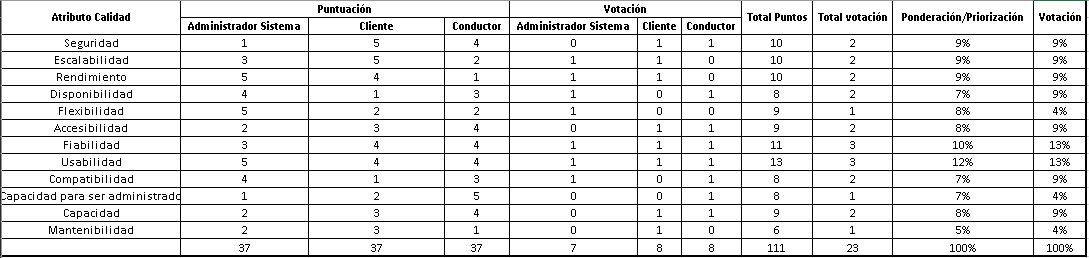
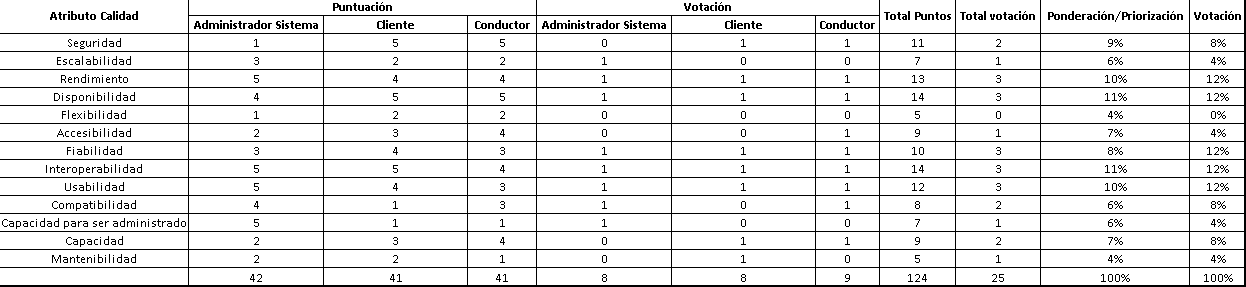
Se crearon hasta el arquetipo de solucion

Changed region(s): [[0.0, 0.0, 1.0, 1.0]]

diff --git a/Diseño/Atributos de calidad.md b/Diseño/Atributos de calidad.md
@@ -1,0 +1,31 @@
+## Atributos de calidad
+
+- [Atributos de calidad.](https://github.com/federico1605/Software2/blob/main/Imagenes/Drivers-Arquitectonicos/AtributoCalidad.png)
+
+### 1.1.2.1.2 Características.
+
+- Seguridad: Se refiere al grado en que el software satisface las necesidades de seguridad indicadas por los siguientes subatributos: confidencialidad, integridad, no repudio y autenticidad.
+
+- Escalabilidad: Se refiere a la capacidad del software para manejar sin fricciones aumentos en la carga de trabajo o el volumen de datos.
+
+- Rendimiento: Se refiere a la capacidad del software para responder en un tiempo razonable a las solicitudes del usuario y manejar una carga de trabajo determinada.
+
+- Disponibilidad: Se enfoca en la capacidad del software para estar disponible y operativo cuando se necesita
+
+- Flexibilidad: Se enfoca en la capacidad del software para ser extendido en sus responsabilidades y capacidades funcionales y permitir que sea modificado sin mayores traumatismos.
+
+- Accesibilidad: Se refiere a la capacidad del software para ser utilizado por personas con discapacidades o limitaciones físicas o mentales.
+
+- Fiabilidad: Se refiere a la capacidad de un sistema para realizar una función requerida bajo condiciones específicas durante un período de tiempo determinado.
+
+- Interoperabilidad: Se refiere a la capacidad de un sistema para intercambiar información con otros sistemas o con el entorno donde opera.
+
+- Usabilidad: Se refiere a la capacidad de un software de ser comprendido, aprendido, usado y ser atractivo para el usuario, en condiciones específicas de uso.
+
+- Compatibilidad: Mide la capacidad de dos o más sistemas o componentes para intercambiar información y/o llevar a cabo sus funciones requeridas cuando comparten el mismo entorno hardware o software.
+
+- Capacidad para ser administrado: Se refiere a la capacidad del software para poder garantizar que el software pueda brindar información de relavancia al afminitrador o administradores del software, como tambien la capacidad de poder realizar cambios cuado los administradores lo requieran.
+
+- Capacidad: Se refiere a la capacidad del software de poder generar almacenamiento necesario para el uso de los usaurios al momento de usar el software.
+
+- Mantenibilidad: Representa la capacidad del producto software para ser modificado efectiva y eficientemente, debido a necesidades evolutivas, correctivas o perfectivas.

diff --git a/CarpoolingUCO.md b/CarpoolingUCO.md
@@ -4,13 +4,12 @@
 
 1.1.2 Restricciones de negocio.
 
-1.1.2.1 Atributos de calidad.
+1.1.2.1 [Atributos de calidad.](https://github.com/federico1605/Software2/blob/main/Diseño/Atributos
+de calidad.md)
 
 1.1.2.1.1 [Mapa de empatia](https://github.com/federico1605/Software2/blob/main/Drivers-Arquitectonicas.md)
 
-1.1.2.1.2 Características.
-
-1.2.1.2.2 Priorización.
+1.2.1.2.2 [Priorización.](https://github.com/federico1605/Software2/blob/main/Imagenes/Drivers-Arquitectonicos/Votacion.png)
 
 1.1.2.1.3 [Escenarios de calidad](https://github.com/federico1605/Software2/blob/main/Escenario-Calidad.md)
 
@@ -22,7 +21,7 @@
 
 1.1.2.3 Restricciones de negocio.
 
-1.1.3 Alternativa de solución
+### 1.1.3 Alternativa de solución
 
 1.1.3.2 Arquitectura de referencia.
 

diff --git a/Alternativa de solucion/Alternativa de solucion.md b/Alternativa de solucion/Alternativa de solucion.md
@@ -1,0 +1,7 @@
+### Arquitectura de referencia
+
+- [Arquitectura de referencia](https://github.com/federico1605/Software2/blob/main/Imagenes/Atributos de calidad/Arquitectura de referencia.png)
+
+-  Esta es la arquitectura la cual se propueso de referencia con la cual se va a contruir las bases para el proyecto CarpoolingUCO, la cual se orienta a una arquitectura en una plataforma web, la cual consta de todos los artefactos de seguridad y direccion logica la cual tomaria la aplicación.
+
+- [Arquetipo de solución](https://github.com/federico1605/Software2/blob/main/Imagenes/Atributos de calidad/ArquetipoSolucion.png)
